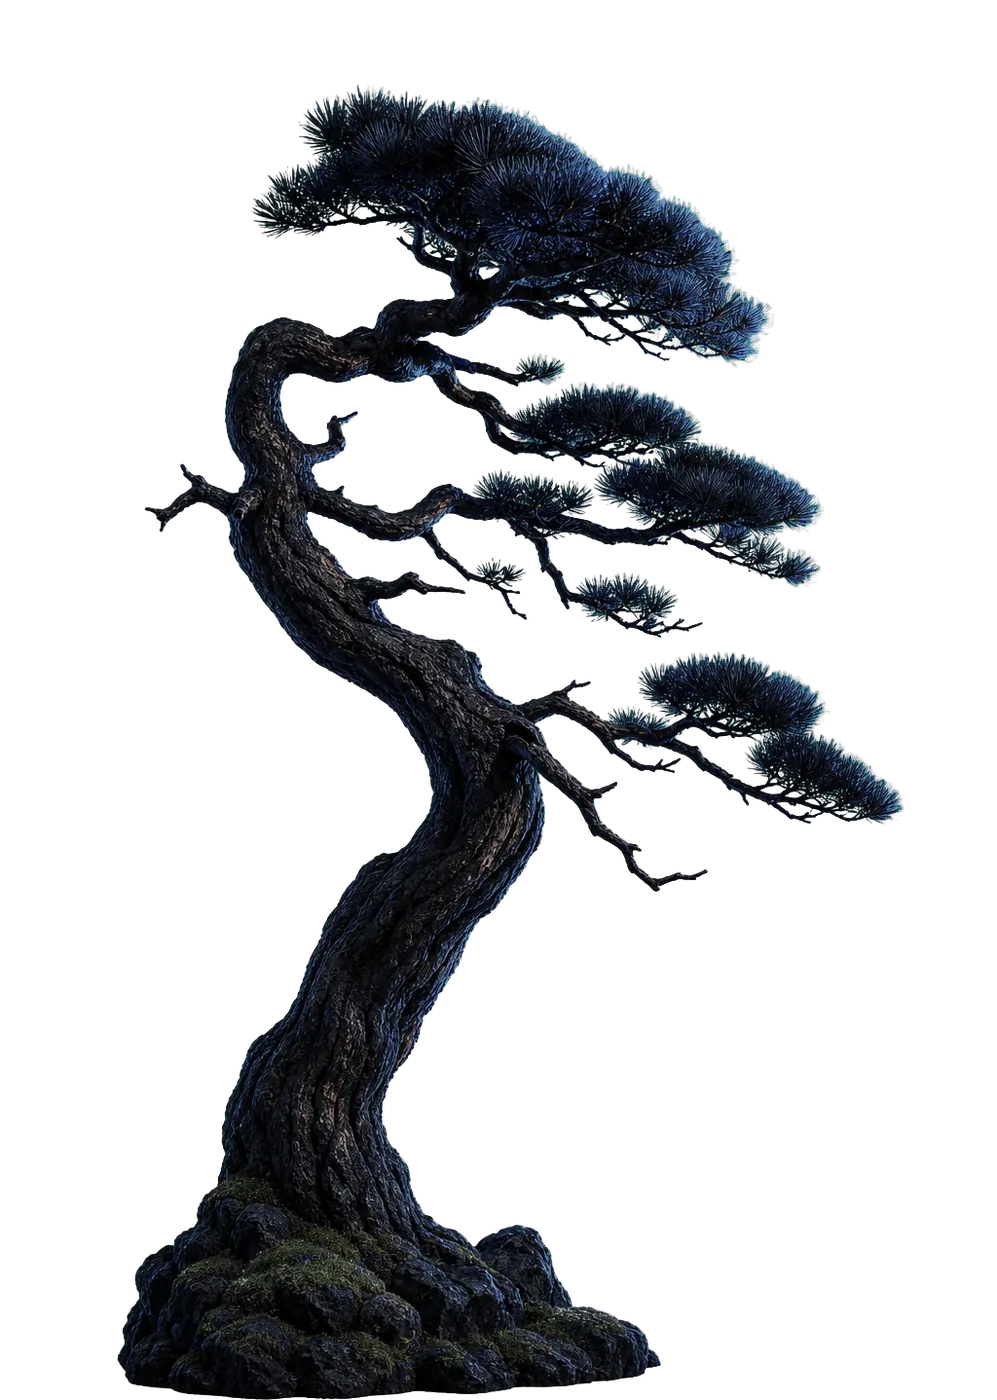
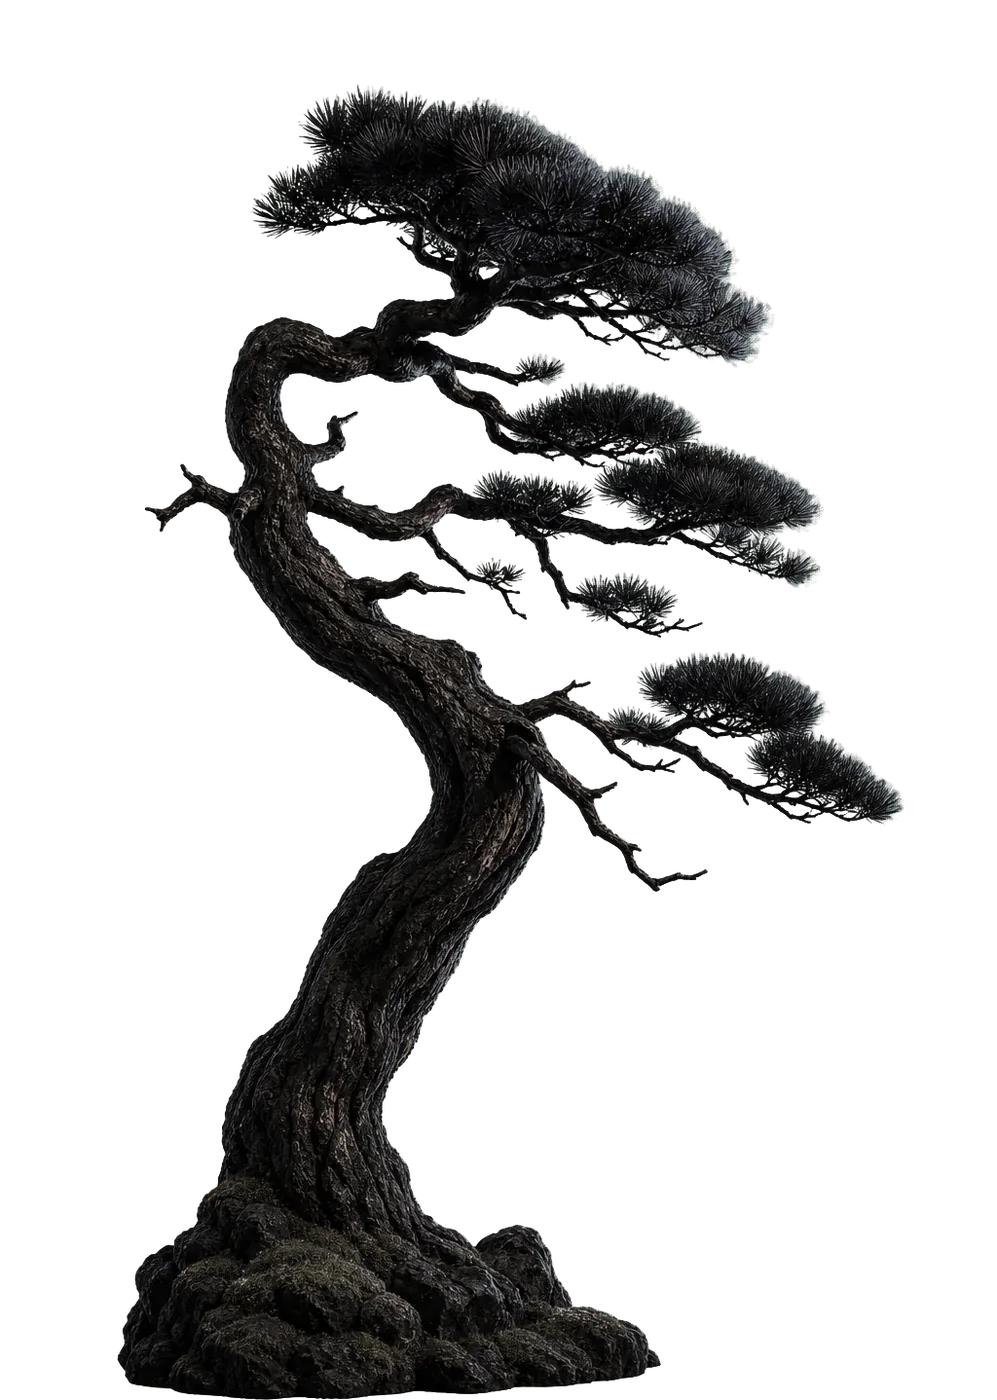
Grade the foreground cut-outs into the plate's dusk
Their originals are not in the repository, so the first build's moonlit
output is promoted to images/cutout-6..9.webp and becomes their source.
The grade that ran over them (moonlight) is replaced by one that pulls the
slate blues back to neutral and warms them the way the sunset warms the
bank -- hardest in the shadows, barely at all on a lit rim. Idempotent:
re-running reads the same sources and writes the same output.

diff --git a/tools/build_assets.py b/tools/build_assets.py
@@ -17,7 +17,8 @@ still rebuild do. The committed files under assets/img are the record of the
 ones that cannot.
 
 What it makes
-  assets/img/vajradhan6..9.webp      foreground cut-outs, graded to moonlight
+  assets/img/vajradhan6..9.webp      foreground cut-outs, graded to the
+      hero plate's dusk
   assets/img/vajradhan-logo.webp     the mark, keyed off its leather ground
   assets/img/vajradhan-logo-64.png   favicon
   assets/fonts.css                   Onest + Unbounded as base64 woff2
@@ -175,19 +176,31 @@ def build_logo():
 
 
 # -------------------------------------------------------------- cut-outs
-# Kage cut-outs kept for the cold palette, under the project's own names.
-CUTOUTS = [('tall-grass.webp', 'vajradhan6.webp'), ('basalt-stones.webp', 'vajradhan7.webp'),
-           ('hill.webp', 'vajradhan8.webp'), ('pine-tree.webp', 'vajradhan9.webp')]
+# The originals (tall-grass, basalt-stones, hill, pine-tree) are not in the
+# repository, so the moonlit cut-outs the first build produced are kept as the
+# sources instead. They are already keyed and already neutral, so the grade
+# below only has to move them from that night to this one.
+CUTOUTS = [('cutout-6.webp', 'vajradhan6.webp'), ('cutout-7.webp', 'vajradhan7.webp'),
+           ('cutout-8.webp', 'vajradhan8.webp'), ('cutout-9.webp', 'vajradhan9.webp')]
 
 
-def moonlight(im):
-    """Pull a warm-lit cut-out into the photo's moonlight: less chroma, the
-    reds and mosses pushed toward slate, a touch darker."""
+# the plate's own foreground, measured: deep shadow 32-29-27, horizon 81-73-71
+SHADOW_TINT = np.array([1.16, 1.00, 0.84])
+LIGHT_TINT = np.array([1.06, 1.00, 0.94])
+
+
+def duskfire(im):
+    """Carry a moonlit cut-out into the vortex plate's dusk: the slate blues
+    pulled back to neutral, then warmed the way the sunset warms the bank —
+    hardest in the shadows, barely at all where a rim catches the light."""
     rgba = np.asarray(im.convert('RGBA')).astype(np.float64)
     rgb = rgba[..., :3]
     L = lum(rgb)[..., None]
-    rgb = L + (rgb - L) * .55
-    rgb = rgb * np.array([.80, .88, 1.02]) * .92
+    # most of the cold cast lives in the chroma; keep a third of it for shape
+    rgb = L + (rgb - L) * .34
+    t = np.clip(L / 90.0, 0, 1)                      # shadow -> light ramp
+    tint = SHADOW_TINT * (1 - t) + LIGHT_TINT * t
+    rgb = rgb * tint * 1.04
     rgba[..., :3] = np.clip(rgb, 0, 255)
     return Image.fromarray(rgba.astype(np.uint8), 'RGBA')
 
@@ -195,7 +208,7 @@ def moonlight(im):
 def build_cutouts():
     sizes = {}
     for s, d in CUTOUTS:
-        im = moonlight(Image.open(src(s)))
+        im = duskfire(Image.open(src(s)))
         im.thumbnail((1400, 1400), Image.LANCZOS)
         im.save(out(d), 'WEBP', quality=84, method=6)
         sizes[d] = im.size

diff --git a/README.md b/README.md
@@ -64,9 +64,11 @@ pip install pillow numpy
 python tools/build_assets.py
 ```
 
-`build_assets.py` keys the logo off its studio background, grades the foreground cut-outs to moonlight and re-embeds the fonts. Each step needs its own source under `images/`; a step whose source is missing is skipped with a note instead of failing the run.
+`build_assets.py` keys the logo off its studio background, grades the foreground cut-outs into the hero plate's dusk and re-embeds the fonts. Each step needs its own source under `images/`; a step whose source is missing is skipped with a note instead of failing the run.
 
-**The logo and cut-out sources are not in the repository.** `images/logo.jpeg`, `tall-grass.webp`, `basalt-stones.webp`, `hill.webp` and `pine-tree.webp` were never committed, so `assets/img/vajradhan-logo.webp`, `vajradhan-logo-64.png`, `favicon.png` and `vajradhan6–9.webp` currently cannot be rebuilt — the committed files are the only copy. Put those sources back under `images/` and the steps run again.
+**The logo source is not in the repository.** `images/logo.jpeg` was never committed, so `assets/img/vajradhan-logo.webp`, `vajradhan-logo-64.png` and `favicon.png` cannot be rebuilt — the committed files are the only copy. Put it back under `images/` and the step runs again.
+
+The cut-outs' own originals are gone too, so the first build's moonlit output was kept as their source (`images/cutout-6..9.webp`); the grade now carries those into the hero plate's dusk.
 
 `build_hero.py` cuts `images/vajradhan11.png` into the five depth planes along hand-traced lines (skyline, horizon haze, city, road), filling the area behind each one so the parallax never shows a doubled edge. Pass `--png` to write transparent PNGs beside the webp plates.
 
